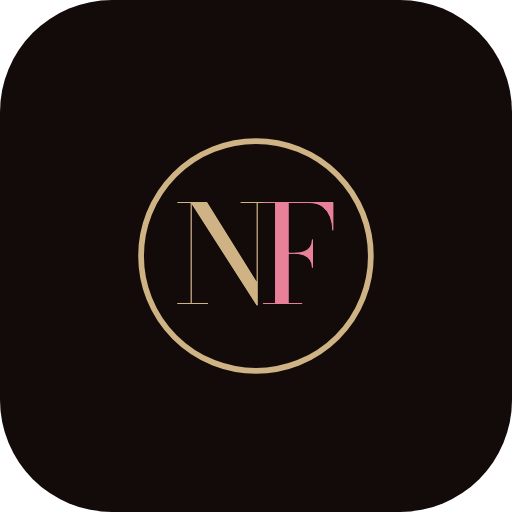
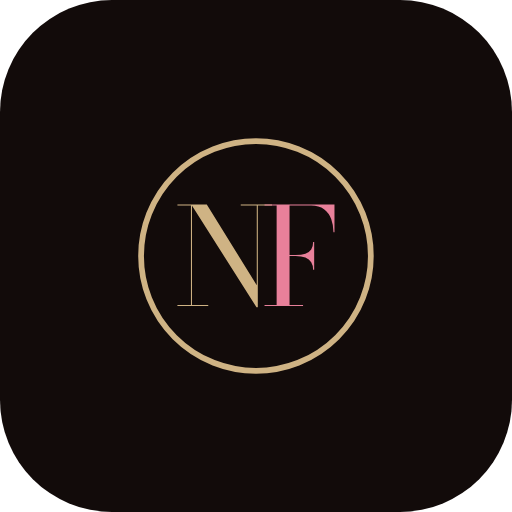
Outline the NF monogram so it survives Safari
The logo rendered broken on iPhone. The monogram was <text> inside the SVG
with the family coming from a CSS variable, and Safari does not reliably
apply a webfont there — nothing else on the page used Bodoni Moda, so it
had no reason to fetch the font at all. dominant-baseline is uneven across
engines too, so the vertical centring was resting on shaky ground.

The monogram is now a path. It cannot fall back to the wrong face, and it
no longer depends on a font being loaded, so Bodoni Moda comes out of
next/font entirely — one less download for every visitor.

Bodoni carries an optical-size axis that the browser was varying with the
rendered size; an outline is fixed, so it is baked at opsz 28. That keeps
the contrast at display size while the hairlines still hold at 30px, where
the display cut of the face falls apart.

scripts/build-brand.py extracts the outlines and writes them to
src/components/logo-paths.ts, so the PNGs and the app render from the same
geometry rather than two copies that can drift. It now needs fontTools.

diff --git a/src/components/logo.tsx b/src/components/logo.tsx
@@ -1,12 +1,16 @@
 import { cn } from "@/lib/utils";
+import { MONOGRAM_F, MONOGRAM_N } from "@/components/logo-paths";
 
 /**
  * Anel em ouro com o monograma NF.
  *
- * O monograma é <text> dentro do próprio SVG, e não um span ao lado: assim ele
- * escala junto com o anel em qualquer tamanho, sem recalcular o corpo da fonte
- * a cada uso. N e F são ambos angulares e de haste vertical, então sobrepô-los
- * faz o F sumir dentro do N — é a cor que separa as duas letras, não a forma.
+ * O monograma é contorno, e não <text>: webfont dentro de SVG não é confiável
+ * no Safari — se nada mais na página usar a fonte, ele pode nem baixá-la, e o
+ * logo sai quebrado no iPhone. Em contorno o desenho independe de fonte
+ * carregada, e o site deixa de precisar da Bodoni.
+ *
+ * Os traçados vêm de scripts/build-brand.py, o mesmo que gera os PNGs da
+ * marca, para não existirem duas cópias do desenho.
  */
 export function Logomark({ className }: { className?: string }) {
   return (
@@ -24,20 +28,10 @@ export function Logomark({ className }: { className?: string }) {
         stroke="currentColor"
         strokeWidth="1.7"
       />
-      {/* 40 = 40% do diâmetro; acima de ~44 as serifas encostam no anel. */}
-      <text
-        x="50"
-        y="50"
-        textAnchor="middle"
-        dominantBaseline="central"
-        fontSize="40"
-        style={{ fontFamily: "var(--font-bodoni)" }}
-      >
-        <tspan fill="currentColor">N</tspan>
-        <tspan dx="-4" className="fill-rose">
-          F
-        </tspan>
-      </text>
+      {/* N e F são ambos angulares e de haste vertical: sobrepô-los faz o F
+          sumir dentro do N, então é a cor que separa as duas letras. */}
+      <path d={MONOGRAM_N} fill="currentColor" />
+      <path d={MONOGRAM_F} className="fill-rose" />
     </svg>
   );
 }

diff --git a/src/app/layout.tsx b/src/app/layout.tsx
@@ -1,5 +1,5 @@
 import type { Metadata, Viewport } from "next";
-import { Bodoni_Moda, Geist_Mono, Jost, Oswald, Roboto } from "next/font/google";
+import { Geist_Mono, Jost, Oswald, Roboto } from "next/font/google";
 import { CartProvider } from "@/lib/cart-context";
 import { CartDrawer } from "@/components/cart-drawer";
 import "./globals.css";
@@ -15,13 +15,9 @@ const geistMono = Geist_Mono({
   subsets: ["latin"],
 });
 
-// As três faces da marca. Só o logo as usa, então ficam fora de --font-heading
-// e são aplicadas pontualmente em components/logo.tsx.
-const bodoni = Bodoni_Moda({
-  variable: "--font-bodoni",
-  subsets: ["latin"],
-});
-
+// As faces do logo. Só ele as usa, então ficam fora de --font-heading e são
+// aplicadas pontualmente em components/logo.tsx. O monograma NF não entra aqui:
+// é contorno, gerado por scripts/build-brand.py.
 const oswald = Oswald({
   variable: "--font-oswald",
   subsets: ["latin"],
@@ -61,7 +57,7 @@ export default function RootLayout({
   return (
     <html
       lang="pt-BR"
-      className={`dark ${roboto.variable} ${geistMono.variable} ${bodoni.variable} ${oswald.variable} ${jost.variable} h-full antialiased`}
+      className={`dark ${roboto.variable} ${geistMono.variable} ${oswald.variable} ${jost.variable} h-full antialiased`}
     >
       <body className="min-h-full flex flex-col bg-background text-foreground">
         <CartProvider>

diff --git a/src/components/logo-paths.ts b/src/components/logo-paths.ts
@@ -1,0 +1,7 @@
+// GERADO por scripts/build-brand.py — não editar à mão.
+// Contornos do monograma NF (Bodoni Moda 400, opsz 28), num viewBox de 100x100.
+export const MONOGRAM_N =
+  "M31.07 34.80V64.50H35.88V64.80H26.76V64.50H30.76V35.10H26.76V34.80ZM54.76 34.80V35.10H50.55V65.20H50.16L30.86 34.80H35.45L50.24 58.69V35.10H45.50V34.80Z";
+
+export const MONOGRAM_F =
+  "M66.92 54.08Q66.92 52.74 66.35 51.84Q65.79 50.94 64.63 50.48Q63.48 50.03 61.75 50.03H59.14V49.73H61.75Q63.48 49.73 64.63 49.33Q65.79 48.93 66.35 48.08Q66.92 47.23 66.92 45.89H67.23V54.08ZM73.24 34.80V43.00H72.94Q72.94 40.86 72.27 39.06Q71.59 37.27 70.14 36.18Q68.68 35.10 66.33 35.10H59.94V64.50H63.94V64.80H52.54V64.50H56.12V35.10H52.54V34.80Z";

diff --git a/scripts/build-brand.py b/scripts/build-brand.py
@@ -9,14 +9,31 @@ empilhado de quatro níveis (marca / nome / categoria / assinatura). Rasteriza
 via Chrome headless, que renderiza oklch() nativamente — as cores saem
 idênticas às de globals.css.
 
-As fontes (Bodoni Moda, Oswald, Jost) são baixadas do Google Fonts na primeira
-execução e ficam em cache em scripts/.fonts/ — só o primeiro run precisa de rede.
+O monograma vira CONTORNO, não texto: webfont dentro de <svg><text> não é
+confiável no Safari (a fonte pode nem ser baixada se nada mais na página a
+usar), e foi o que quebrou o logo no iPhone. Como efeito colateral, o site
+deixa de precisar carregar a Bodoni.
+
+Este script é a fonte única do desenho: além dos PNGs, ele escreve os
+contornos em src/components/logo-paths.ts, que o componente do site consome.
+
+Requer fontTools + brotli:  pip3 install fonttools brotli
+
+As fontes são baixadas do Google Fonts na primeira execução e ficam em cache
+em scripts/.fonts/ — só o primeiro run precisa de rede.
 """
 import base64
 import pathlib
 import re
 import subprocess
 import sys
+
+from fontTools.misc.transform import Transform
+from fontTools.pens.boundsPen import BoundsPen
+from fontTools.pens.svgPathPen import SVGPathPen
+from fontTools.pens.transformPen import TransformPen
+from fontTools.ttLib import TTFont
+from fontTools.varLib import instancer
 
 ROOT = pathlib.Path(__file__).resolve().parent.parent
 OUT = ROOT / "public" / "brand"
@@ -34,6 +51,14 @@ NAME_WEIGHT = 400
 # Tamanho do monograma em relação ao diâmetro da marca. Acima de ~0.44 as
 # serifas do N e do F encostam no anel.
 MONO_SCALE = 0.40
+
+# Sobreposição entre N e F, em unidades do viewBox de 100.
+MONO_KERN = -4.0
+
+# A Bodoni tem eixo óptico: em texto o navegador o ajusta conforme o corpo, mas
+# um contorno é fixo e precisa de um valor só. 28 mantém o contraste no tamanho
+# grande e ainda segura as hastes finas aos 30px, onde 96 já some.
+MONO_OPSZ = 28
 
 FAMILIES = {"BodoniModa": "Bodoni+Moda:opsz,wght@6..96,400;6..96,500",
             "Oswald": "Oswald:wght@200;300;400;500;600",
@@ -64,28 +89,68 @@ def font_b64(name):
     return base64.b64encode(path.read_bytes()).decode()
 
 
+# Só as faces usadas como TEXTO nos PNGs. A Bodoni ainda é baixada (o
+# monograma sai dela), mas vira contorno, então não precisa ir no CSS.
 FACES = "".join(
     f"@font-face{{font-family:'{n}';font-weight:100 900;"
     f"src:url(data:font/woff2;base64,{font_b64(n)}) format('woff2')}}"
-    for n in FAMILIES)
+    for n in ("Oswald", "Jost"))
+font_b64("BodoniModa")  # garante o arquivo em cache para a extração
+
+
+def monogram_paths():
+    """Contornos do N e do F, já posicionados no viewBox de 100.
+
+    O conjunto é centrado pela CAIXA DE TINTA das duas letras, não pela linha
+    de base: é mais fiel do que confiar em dominant-baseline, que além de tudo
+    é irregular entre navegadores."""
+    fs = MONO_SCALE * 100
+    font = instancer.instantiateVariableFont(
+        TTFont(CACHE / "BodoniModa.woff2"), {"wght": 400, "opsz": MONO_OPSZ})
+    glyphs, cmap = font.getGlyphSet(), font.getBestCmap()
+    k = fs / font["head"].unitsPerEm
+    glyph = lambda c: glyphs[cmap[ord(c)]]
+    xs = {"N": 0.0, "F": glyph("N").width * k + MONO_KERN}
+
+    def draw(char, dx, dy, pen):
+        # y invertido: a fonte cresce para cima, o SVG para baixo.
+        glyph(char).draw(
+            TransformPen(pen, Transform().translate(dx, dy).scale(k, -k)))
+
+    bounds = None
+    for char in "NF":
+        b = BoundsPen(glyphs)
+        draw(char, xs[char], 0.0, b)
+        x0, y0, x1, y1 = b.bounds
+        bounds = ((x0, y0, x1, y1) if bounds is None else
+                  (min(bounds[0], x0), min(bounds[1], y0),
+                   max(bounds[2], x1), max(bounds[3], y1)))
+    ox = 50 - (bounds[0] + bounds[2]) / 2
+    oy = 50 - (bounds[1] + bounds[3]) / 2
+
+    out = {}
+    for char in "NF":
+        pen = SVGPathPen(glyphs, ntos=lambda v: f"{v:.2f}")
+        draw(char, xs[char] + ox, oy, pen)
+        out[char] = pen.getCommands()
+    return out
+
+
+MONO = monogram_paths()
 
 
 def mark(size):
-    """Anel em SVG; monograma em HTML por cima, para controle tipográfico.
-    N e F são ambos angulares e de haste vertical, então sobrepor as duas
-    letras faz o F desaparecer dentro do N — é a cor que as separa, não a
-    forma, daí o F em rosa."""
+    """Anel em ouro com o monograma NF em contorno.
+
+    N e F são ambos angulares e de haste vertical, então sobrepô-los faz o F
+    sumir dentro do N — é a cor que separa as duas letras, não a forma."""
     return (
-        f'<div style="position:relative;width:{size}px;height:{size}px">'
         f'<svg width="{size}" height="{size}" viewBox="0 0 100 100"'
-        f' xmlns="http://www.w3.org/2000/svg" style="position:absolute;inset:0">'
+        f' xmlns="http://www.w3.org/2000/svg">'
         f'<circle cx="50" cy="50" r="34" fill="none" stroke="{GOLD}"'
-        f' stroke-width="1.7"/></svg>'
-        f'<div style="position:absolute;inset:0;display:flex;align-items:center;'
-        f'justify-content:center;font-family:BodoniModa,serif;'
-        f'font-size:{MONO_SCALE * size}px;line-height:1">'
-        f'<span style="color:{GOLD}">N</span>'
-        f'<span style="color:{ROSE};margin-left:-.1em">F</span></div></div>')
+        f' stroke-width="1.7"/>'
+        f'<path d="{MONO["N"]}" fill="{GOLD}"/>'
+        f'<path d="{MONO["F"]}" fill="{ROSE}"/></svg>')
 
 
 def lockup(*, s=1.0, fg=FG, weight=None):
@@ -153,10 +218,27 @@ def folha_de_pesos():
            f'justify-items:center">{cells}</div>', 420, 400, transparent=False)
 
 
+def escreve_contornos():
+    """Publica os contornos para o componente do site, para que app e PNG
+    saiam do mesmo desenho em vez de duas cópias que podem divergir."""
+    dest = ROOT / "src" / "components" / "logo-paths.ts"
+    dest.write_text(
+        "// GERADO por scripts/build-brand.py — não editar à mão.\n"
+        "// Contornos do monograma NF (Bodoni Moda 400, "
+        f"opsz {MONO_OPSZ}), num viewBox de 100x100.\n"
+        f'export const MONOGRAM_N =\n  "{MONO["N"]}";\n\n'
+        f'export const MONOGRAM_F =\n  "{MONO["F"]}";\n')
+    print(f"  {dest.relative_to(ROOT)}")
+
+
 def main():
     OUT.mkdir(parents=True, exist_ok=True)
     if "--pesos" in sys.argv:
         return folha_de_pesos()
+
+    print("contornos do monograma")
+    escreve_contornos()
+
 
     print("logo completo — vertical")
     render("logo-vertical-claro", box(lockup(), 420, 330), 420, 330)
